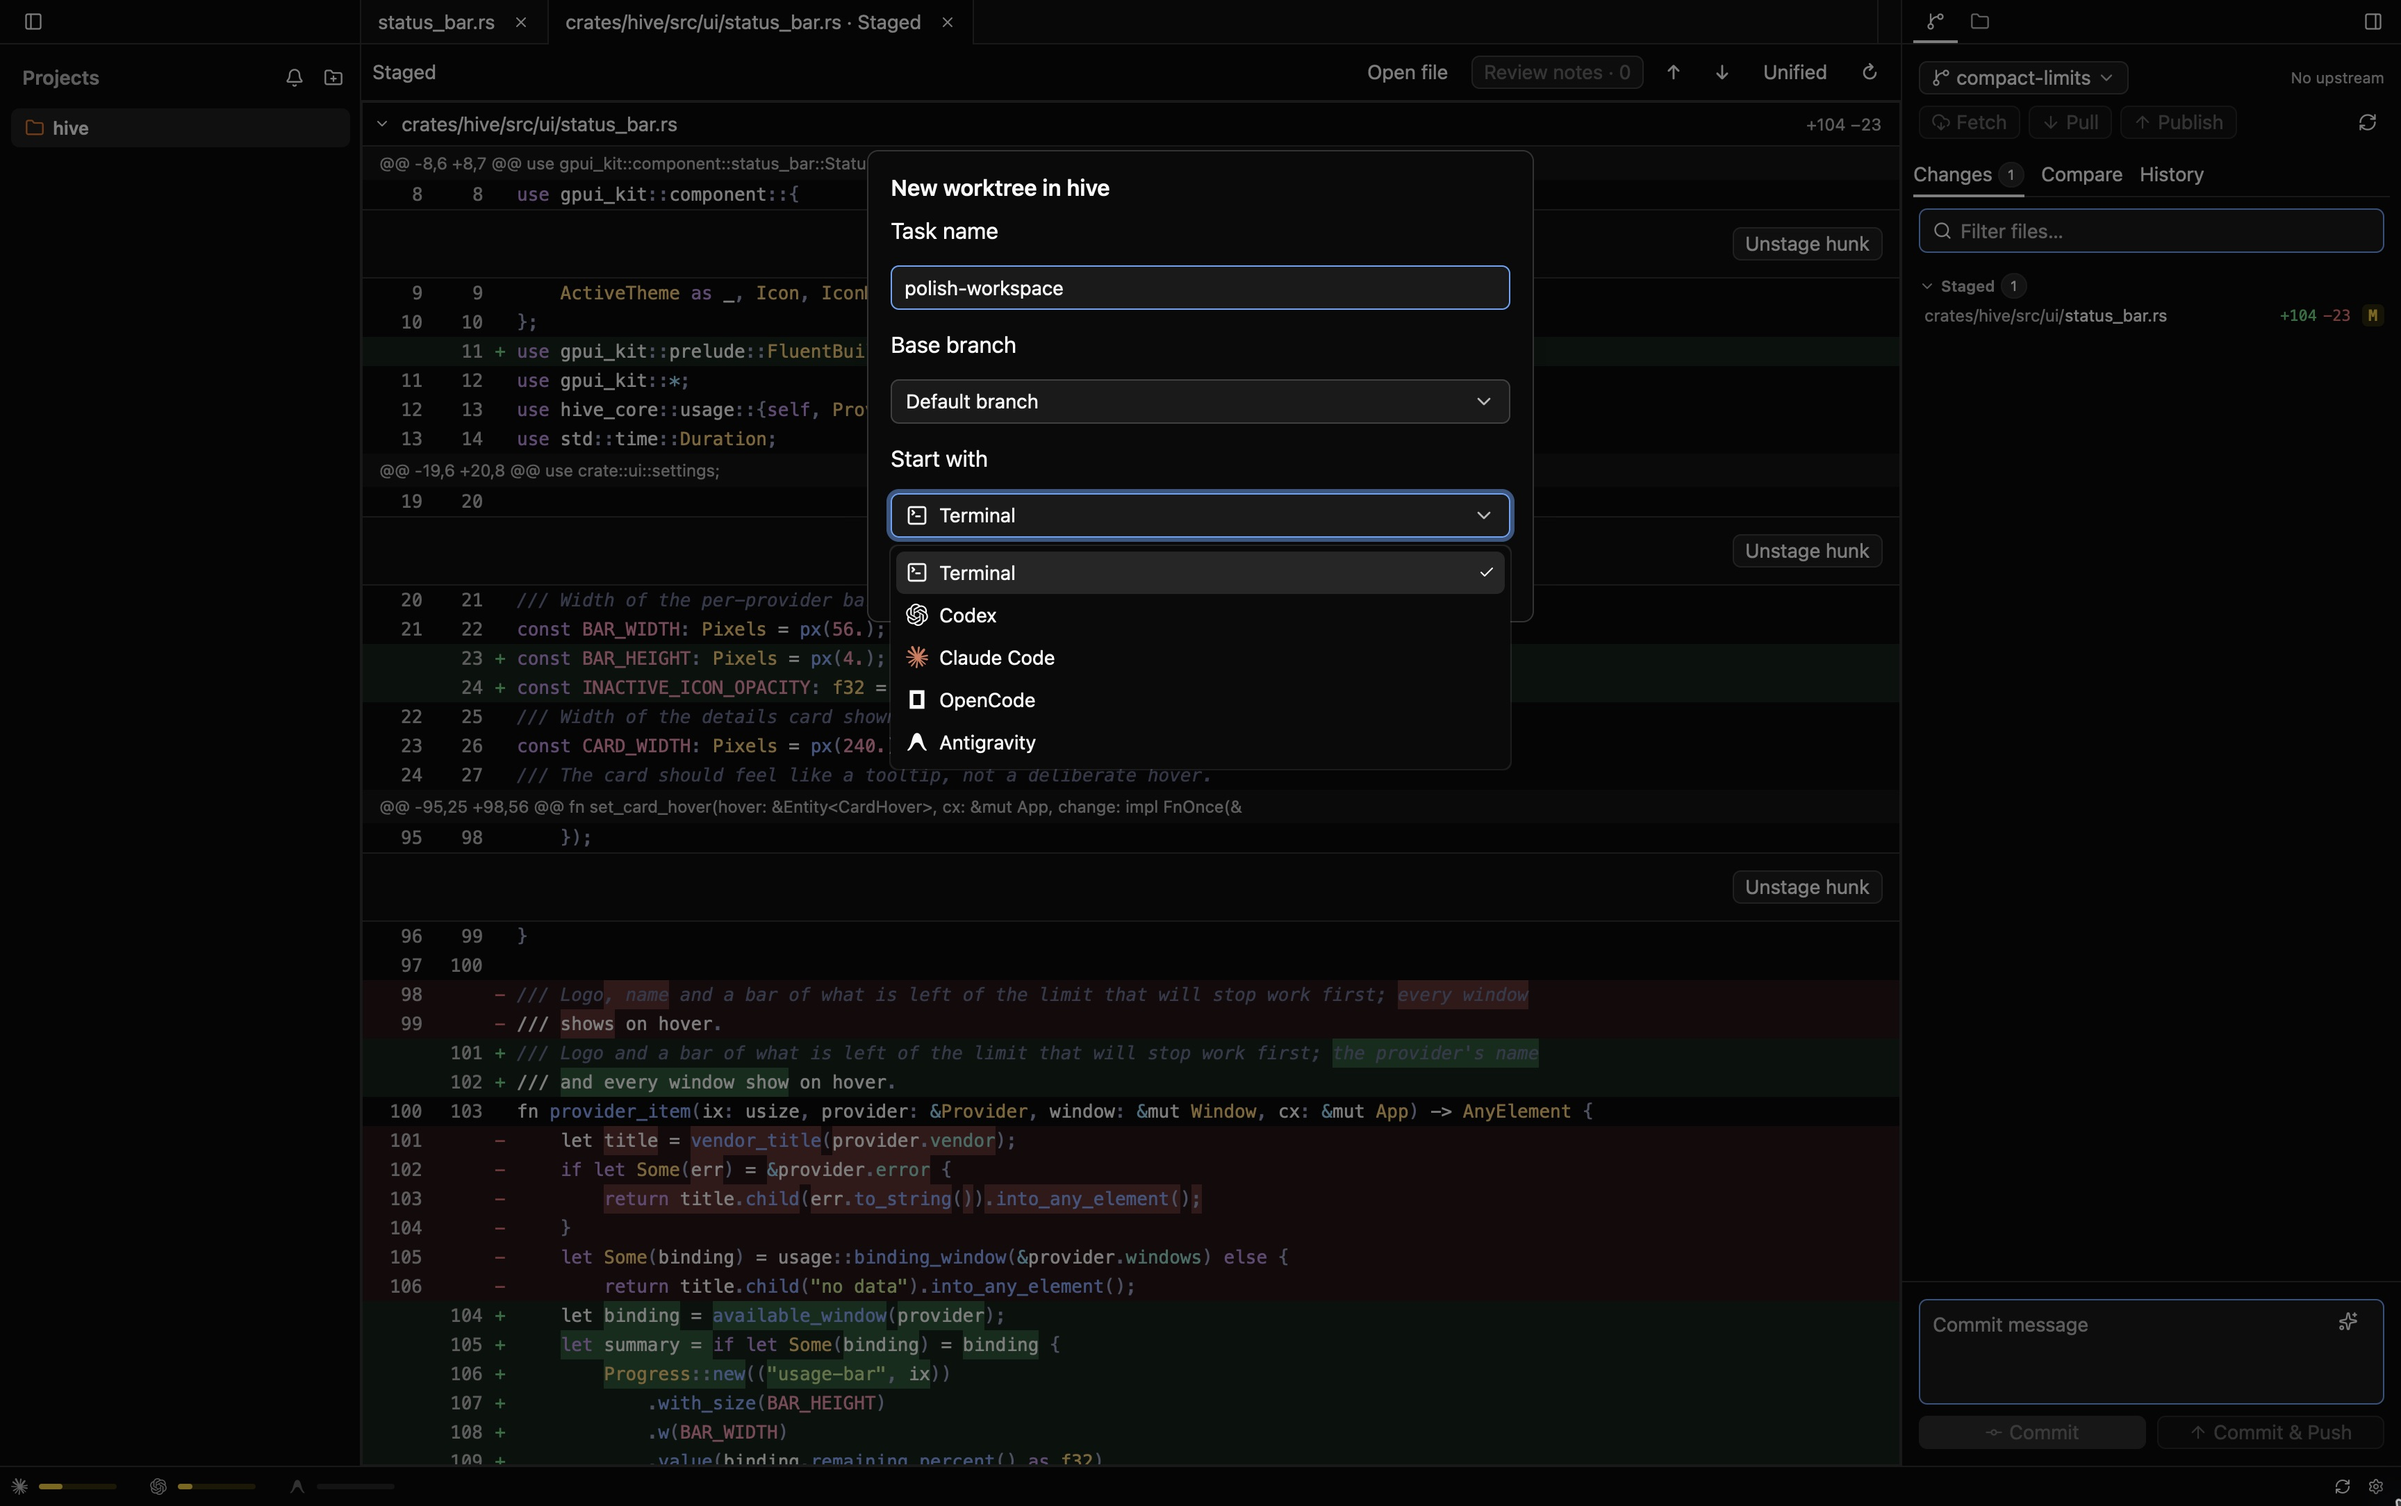
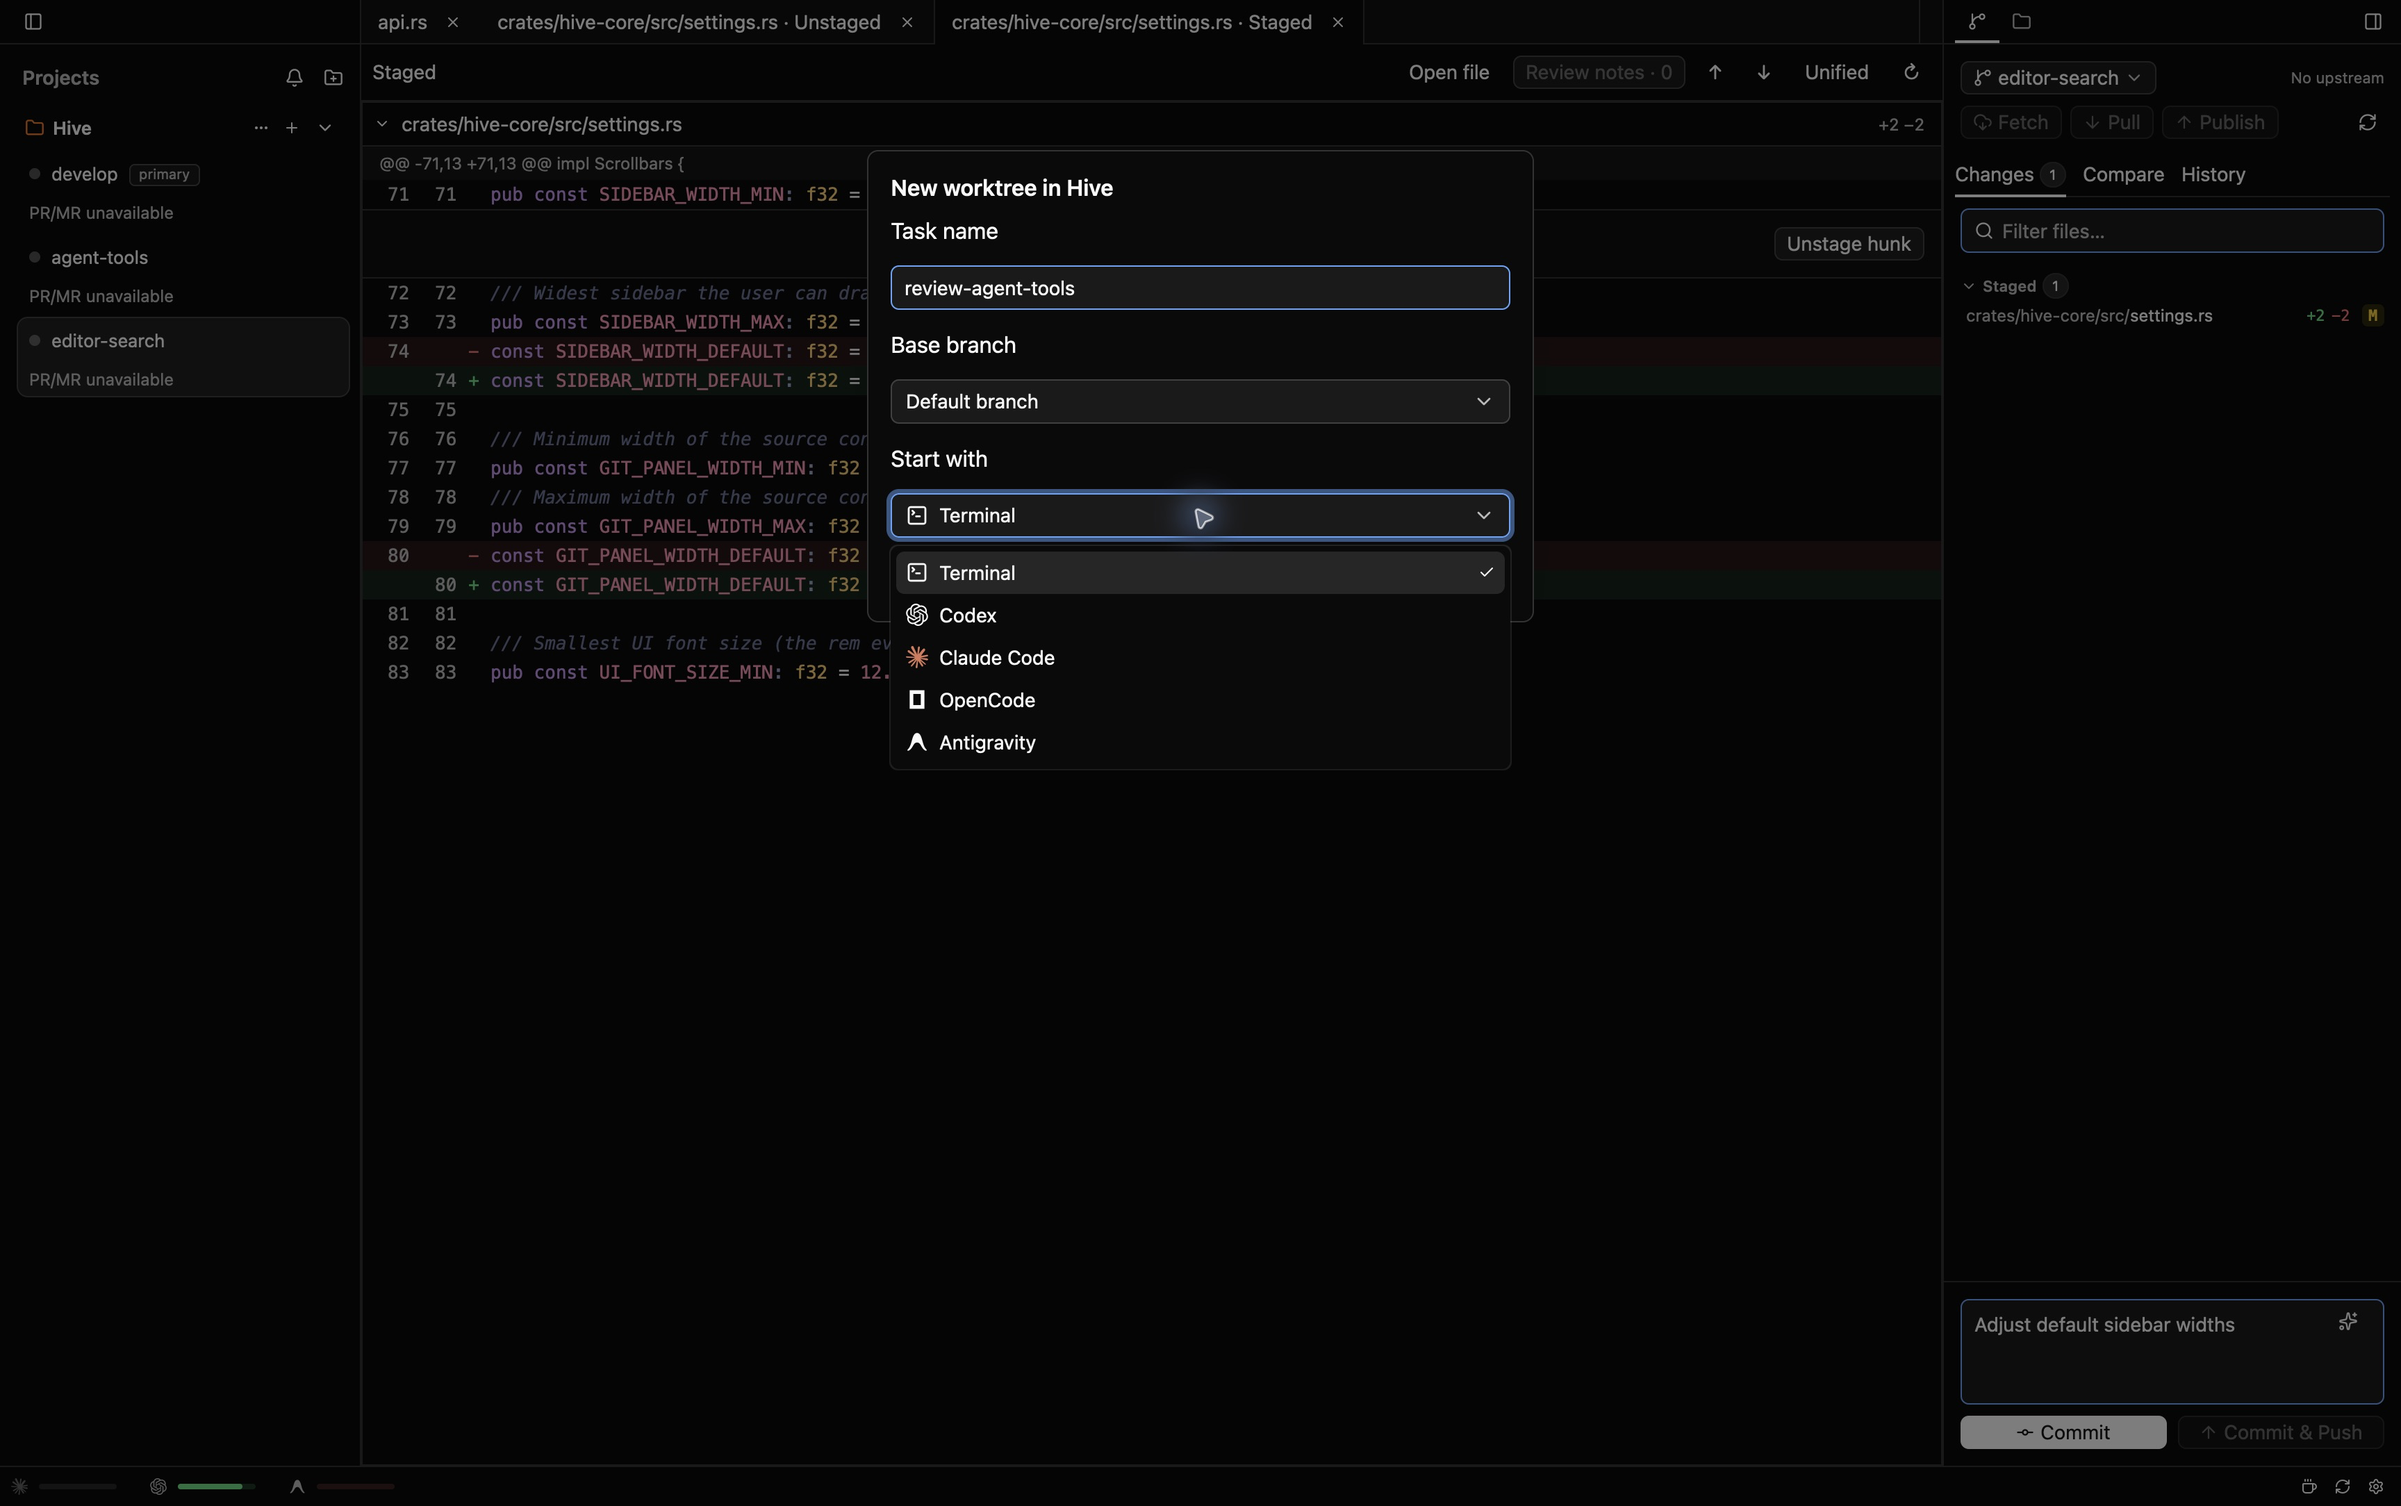
docs: refresh product overview and 1.0.21 screenshots

diff --git a/README.md b/README.md
@@ -9,15 +9,17 @@
 
 **A native desktop workspace for AI coding agents.**
 
-Run agents in separate Git worktrees, edit their changes, and review and commit
-without leaving your workspace. Hive brings projects, terminals, a native code
-editor, and Git tools together in a Rust app, rendered with GPUI through `gpui-kit`.
+Run Claude Code, Codex, OpenCode, and other CLI agents side by side in isolated
+Git worktrees. Give each task its own terminals, search and edit the code, review
+diffs, resolve conflicts, and commit from one workspace. Agents can start helpers
+and exchange messages through Hive’s MCP tools or CLI.
 
-- [Hive](https://github.com/one-reply/hive) - Autonomous multi-agent orchestration framework for automated development workflows.
+Built in Rust with GPUI, Hive runs natively on Apple Silicon Macs and also works
+with Linux projects over SSH.
 
-![Hive's native Rust editor, Files navigator, and worktree sidebar](docs/images/hive-editor.png)
+![Hive 1.0.21 showing its Rust editor, content search, and worktree sidebar](docs/images/hive-editor.png)
 
-*Hive editing its own Rust source, with worktrees on the left and Files on the right.*
+*Search across the project while editing, with isolated worktrees one click away.*
 
 > **Hive 1.0 · macOS / Apple Silicon**
 >
@@ -30,21 +32,15 @@ editor, and Git tools together in a Rust app, rendered with GPUI through `gpui-k
 
 **Apple Silicon only.** The button opens GitHub Releases, where you can download
 the latest stable release and its SHA-256 checksum.
-The current release is [Hive 1.0.4](https://github.com/one-reply/hive/releases/tag/v1.0.4),
-with a Developer ID signature and Apple notarization. See the
-[release notes](docs/releases/v1.0.4.md) for changes and the
-[verification record](docs/RELEASE_CHECKS.md) for completed
-and pending checks.
+Published builds have a Developer ID signature and Apple notarization.
+See the [latest release notes](https://github.com/one-reply/hive/releases/latest)
+for changes, verification results, and known limits.
 
 Packaged builds from **0.1.1** include signed in-app updates. Open **Settings → Updates**
 or **Hive → Check for Updates…** to check manually. Hive also checks daily and asks
 before installing and restarting. Finish active agent sessions before restarting.
 After updating, a compact notification links to the installed version’s release notes.
 Older builds need one manual installation of a version that includes the updater.
-
-Version **1.0.4** moves agent attention alerts to macOS notifications that open the
-agent's project and pane, starts agents from the pane menu in place unless another agent
-already runs there, and scrolls terminal selections past the pane edges.
 
 ## What you can do today
 
@@ -53,15 +49,18 @@ already runs there, and scrolls terminal selections past the pane edges.
 | **Organize your work** | Add local or SSH Linux projects, create and remove Git worktrees, reorder projects, and customize their names, colors, and icons. |
 | **Start a task** | Create a worktree from a chosen base branch and launch a terminal, Claude Code, Codex, OpenCode, or Antigravity with **Create & Start**. |
 | **Run agents in terminals** | Use terminal tabs and split panes, with text selection, scrollback, and clipboard image paste. See running agents on their worktree cards. |
-| **Let agents work together** | Agents list each other, start a named helper in the next pane, and exchange messages with the `hive agent` command. |
-| **Edit files** | Browse and search with **Files / ⌘P**, use syntax highlighting and preview or pinned tabs, save with **⌘S**, and handle external changes and recovery drafts. |
+| **Let agents work together** | Codex and Claude Code receive pane-specific MCP tools to list, start, message, read, wait for, and interrupt sibling agents. The `hive agent` CLI also supports coordination. |
+| **Edit files** | Find files with **⌘P** or search local file contents with **⌘⇧F**. Use syntax highlighting, completion, inline Git blame, image previews, explicit saves, and recovery drafts. |
 | **Manage files** | Create, rename, move, and delete files or folders; drag files between folders and see Git change badges in the tree. |
 | **Navigate your workspace** | Jump to a project, worktree, or agent with **⌘K**. Use **Needs attention** to see the status, task, agent, project, and branch of sessions that need you. |
 | **Pick up where you left off** | Restore selected worktrees, pinned files, terminal and diff tabs, split sizes, focus, and shell directories. Agent panes continue their Claude Code, Codex, OpenCode, or Antigravity conversation. |
 | **Review and commit** | Inspect unified or split diffs, stage files or hunks, compare branches, browse history, and commit, fetch, pull, or push. |
+| **Resolve conflicts** | Choose Current, Incoming, or both for each conflict block, review the result, then mark it resolved. Continue or abort the Git operation from the panel. |
+| **Resume a conversation** | Open local Claude and Codex conversation history with **⌘⇧H**, then resume a past session in a terminal. |
+| **Keep long tasks running** | Keep your Mac awake while agents work; the display can still sleep. Toggle it from the status bar. |
 | **Send feedback to agents** | Annotate diff lines and copy an editable review prompt. Turn a Git error into a draft in the appropriate agent terminal, ready for you to submit. |
 | **Follow pull and merge requests** | See GitHub PR or GitLab MR and CI status on worktree cards, with links to the request and failing CI, using your existing CLI sign-in. GitLab.com and self-managed GitLab are supported. |
-| **Generate commit messages** | Use Codex, Claude Code, OpenCode, or an API provider to draft a message from staged changes. |
+| **Generate commit messages** | Use Codex, Claude Code, OpenCode, Antigravity, or an API provider to draft a message from staged changes. |
 | **Track usage** | View compact usage bars for Claude Code, Codex, Cursor Agent, and Antigravity. Hover for limits, reset times, or sign-in help; unavailable limits appear gray. |
 | **Make it yours** | Choose from six built-in themes, with independent light and dark palettes and automatic system switching; customize UI and code fonts, Files density and icons, and keyboard shortcuts. |
 | **Keep Hive updated** | Check your installed version and install signed updates from Settings → Updates. |
@@ -93,8 +92,9 @@ directory.
 
 *Create an isolated worktree and choose the terminal or agent that starts in it.*
 
-Screenshots show the 1.0.3 development build in full screen, using a disposable copy
-of Hive's public source. See the [capture record](docs/RELEASE_CHECKS.md#readme-refresh--november-9-2026).
+Screenshots captured on November 15, 2026 show Hive **1.0.21**, built from the
+release source, with a disposable copy of Hive’s public code and sample changes.
+See the [capture record](docs/RELEASE_CHECKS.md#readme-refresh--november-15-2026).
 
 ## Build and run
 
@@ -170,15 +170,24 @@ the hover card explains the error or how to sign in.
 ### Files and editing
 
 The right sidebar switches between **Git** and **Files**. **⌘P** focuses the file
-search; it searches filenames and paths, not file contents. Click a file to preview
-it, or double-click to keep it open. File actions are available from the tree's
-context menu, including **Delete Permanently** with confirmation.
+search for filenames and paths. Use **⌘⇧F** or the **Content** tab to search saved
+file contents in a local project, with case, whole-word, and regular-expression
+options. Results are grouped by file and open at the matching line. Content search
+respects Git ignore rules and is not yet available over SSH.
+
+Click a file to preview it, or double-click to keep it open. Raster images and SVGs
+open in an image preview. File actions are available from the tree’s context menu,
+including **Delete Permanently** with confirmation; local files can also be pasted
+or dropped from Finder.
 
 The editor supports local and remote UTF-8 files up to **1 MiB**, syntax highlighting,
 find/replace, explicit saves, and recovery of unsaved drafts after a restart.
 External edits are reloaded for clean files; unsaved files show a conflict instead
 of silently overwriting either version. **⌘-click** follows JavaScript/TypeScript
 imports to their definitions; **⌘⇧-click** opens them in an adjacent tab.
+
+Inline Git blame shows the author and age of the current line, with commit details
+and a link to history.
 
 Code completion suggests names from the open file and JS/TS imports. Press
 **⌃Space** to show suggestions, **Tab** or **Enter** to accept, or **Escape** to dismiss.
@@ -187,8 +196,14 @@ automatic imports require a language server and are not included.
 
 ### Agents working together
 
-Agents in Hive's local terminals can find each other and talk through the `hive`
-command, which Hive adds to each terminal's `PATH`:
+When launched by Hive, **Codex and Claude Code** receive MCP tools bound to their
+own terminal pane. They can discover sibling agents, start a helper, send a
+message, read terminal output, wait for a result, or interrupt a turn. Hive keeps
+existing MCP servers and does not change global agent configuration or permissions.
+
+**OpenCode and Antigravity** use the CLI fallback; automatic MCP setup is not
+available for them. Agents in local terminals can use the `hive` command, which
+Hive adds to each terminal’s `PATH`:
 
 ```sh
 hive agent list
@@ -218,8 +233,8 @@ host key and unlock your key if needed. Password entry inside Hive is not suppor
 
 The host needs Linux on x86_64 or arm64, Git, and `sha256sum`. Hive installs its
 versioned file helper in `~/.hive/bin` without sudo, Rust, a daemon, or an open port.
-Files, search, editing, image previews, Git, worktrees, and terminal splits operate
-on that host. Install and sign in to agent CLIs on the Linux machine separately;
+Files, filename search, editing, image previews, Git, worktrees, and terminal
+splits operate on that host. Install and sign in to agent CLIs on the Linux machine separately;
 Hive does not copy your Mac's credentials or agent hooks there.
 
 Remote drafts stay on your Mac. Failed scans retain the last workspace, and an
@@ -233,8 +248,8 @@ paths; remote file operations also preserve non-UTF-8 Unix names.
 ### AI commit messages
 
 Open **Settings → Workspace → Git** to choose a generator and customize its prompt.
-CLI generation supports **Codex**, **Claude Code**, and **OpenCode**. API generation
-supports **OpenAI, Anthropic, OpenRouter, and Google AI**; add the corresponding key in
+CLI generation supports **Codex**, **Claude Code**, **OpenCode**, and **Antigravity**.
+API generation supports **OpenAI, Anthropic, OpenRouter, and Google AI**; add the corresponding key in
 **Settings → Workspace → AI**, then select a model in Git settings.
 
 Stage your changes and click the sparkle button in the commit message field.
@@ -273,6 +288,8 @@ require the credentials described in [Releasing](docs/RELEASING.md#developer-id-
 | Add project | ⌘O |
 | Switch project, worktree, or agent | ⌘K |
 | Find a file | ⌘P |
+| Search local file contents | ⌘⇧F |
+| Open conversation history | ⌘⇧H |
 | Save file | ⌘S |
 | Show code suggestions | ⌃Space |
 | New terminal | ⌘T |

diff --git a/docs/RELEASE_CHECKS.md b/docs/RELEASE_CHECKS.md
@@ -1,5 +1,30 @@
 # Release verification
 
+## README refresh — November 15, 2026
+
+The three `docs/images/hive-*.png` files are new, unretouched full-screen captures
+of Hive 1.0.21, built from release commit `a60fd6f`. They show local content search
+beside the Rust editor, a staged diff with a draft commit message, and the New
+worktree agent picker. Each image was inspected for private code, credentials,
+account details, and system control overlays.
+
+A separate app identity and `HIVE_DEV_DATA_DIR` isolated the demo workspace.
+The repository was made from `git archive a60fd6f`, with disposable `agent-tools`
+and `editor-search` worktrees. The two sidebar-width edits shown in review are
+sample changes only. The demo has no Git remote, so PR/MR status is unavailable.
+No agent prompts or demo commits were submitted, and the installed app was not
+replaced. These captures verify presentation, not a paid agent workflow, SSH,
+a clean-account install, or the Sparkle update cycle.
+
+The README now covers MCP coordination, local content search, conversation
+history, conflict resolution, inline blame, previews, and keep-awake. Download
+links use the latest-release URL rather than a version that becomes stale.
+
+Validation: native build and visual inspection, formatting, Clippy with warnings
+denied, workspace tests, the GPUI-free core dependency check, local Markdown
+links, PNG signatures/dimensions (3456×2168), and `git diff --check` passed.
+Socket tests required a rerun outside the restricted sandbox.
+
 ## Hive 1.0.4 — November 9, 2026
 
 The [release notes](releases/v1.0.4.md) describe the changes and verification limits.
